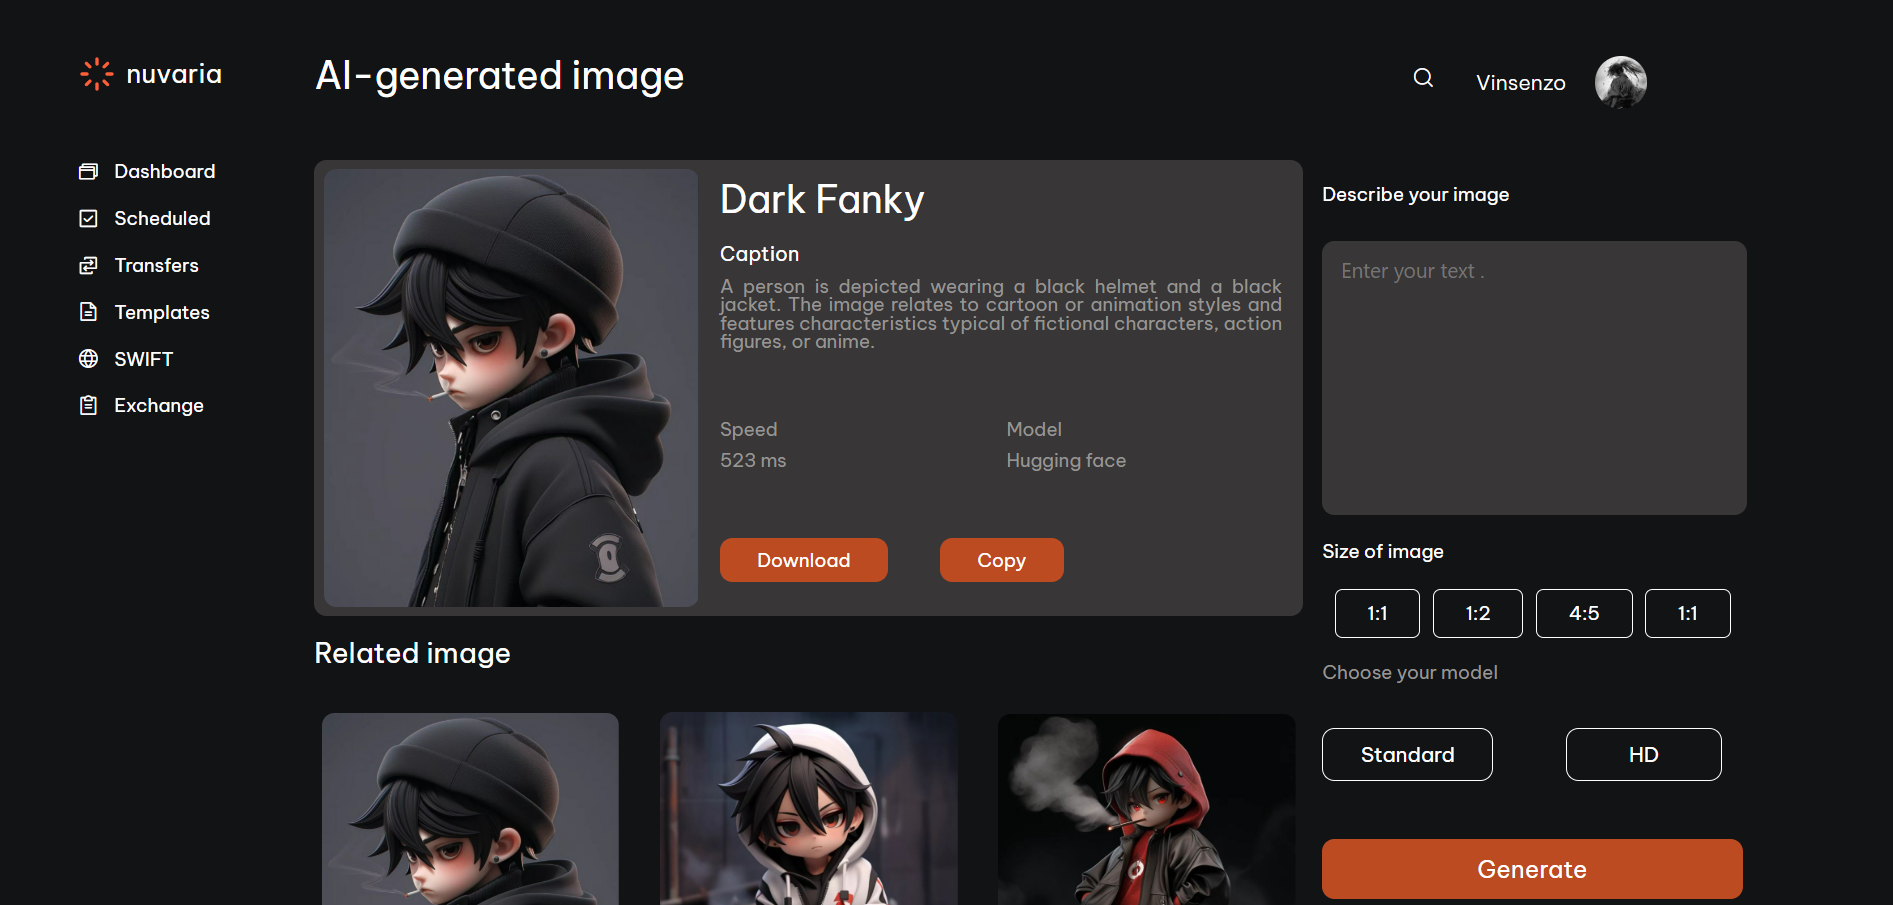
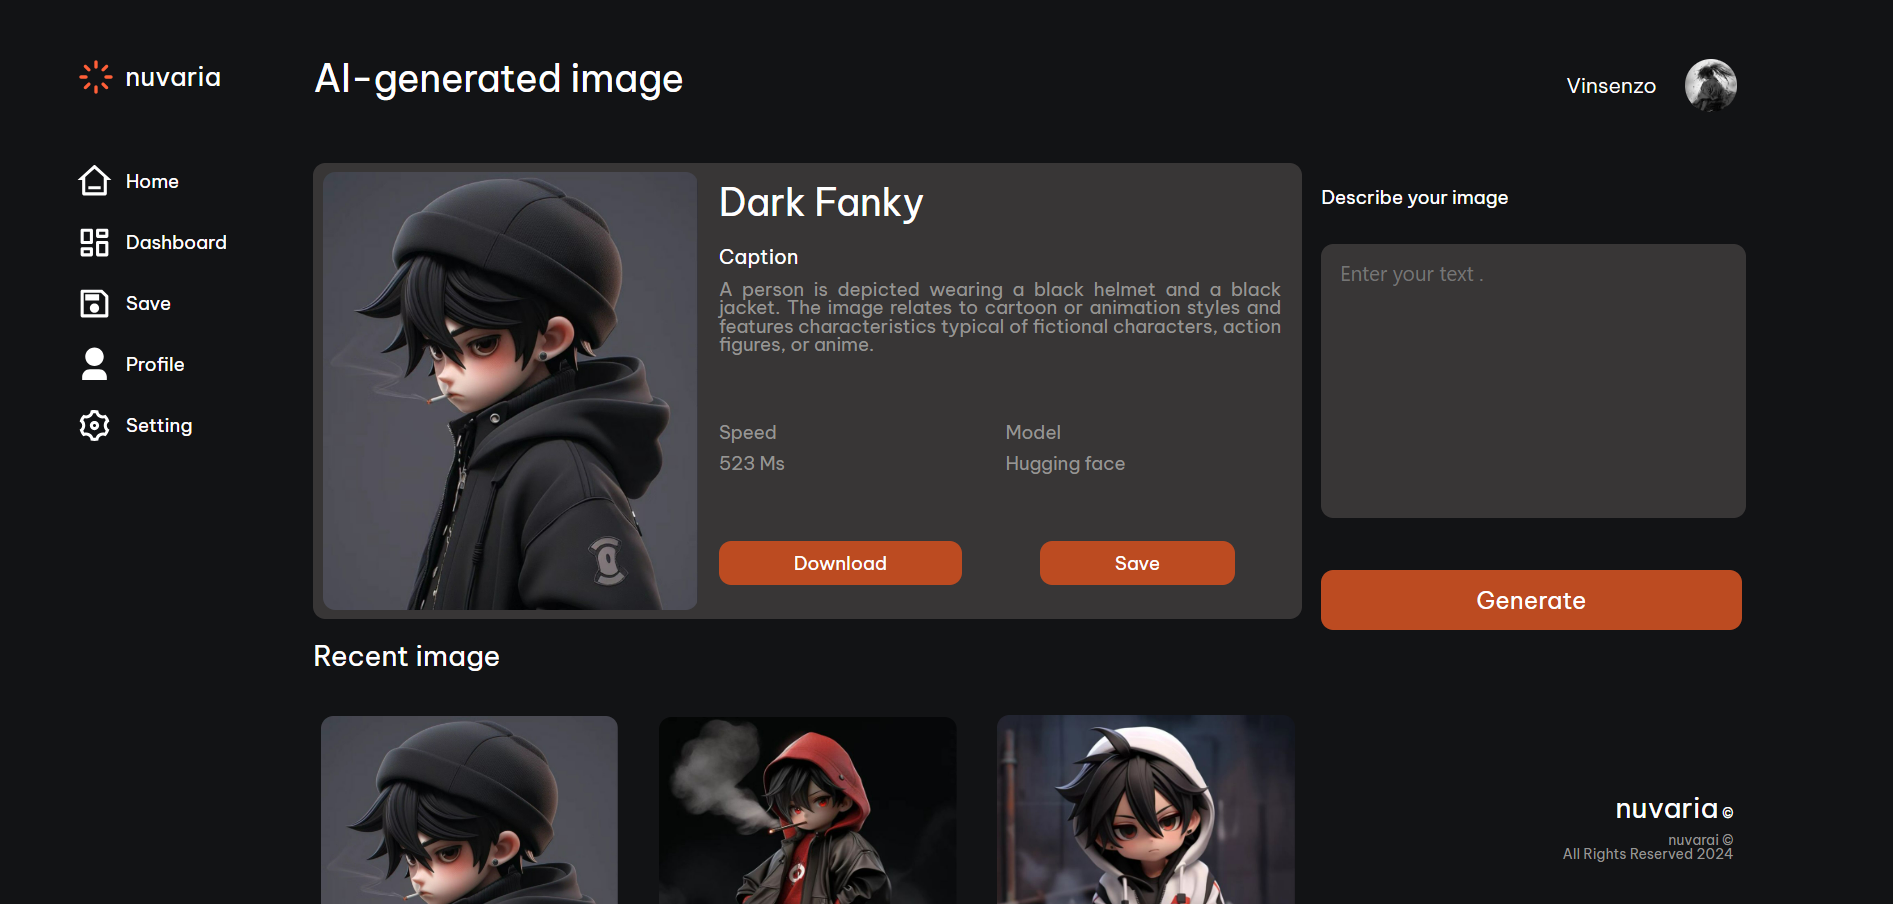
update 🌿

diff --git a/public/dashboard.html b/public/dashboard.html
@@ -29,10 +29,6 @@
 		<div class="app-header-actions">
 		
 			<div class="app-header-actions-buttons">
-				<button class="icon-button large">
-					<i class="ph-magnifying-glass"></i>
-				</button>
-				
 				<button class="user-profile">
 					<span>Vinsenzo</span>
 					<span>
@@ -52,41 +48,28 @@
 		<div class="app-body-navigation">
 			<nav class="navigation">
 				<a href="/">
-					<i class="ph-browsers"></i>
+					<img src="./image/icon/home.svg" alt="">
 					<span>Home</span>
 				</a>
 				<a href="#">
-					<i class="ph-browsers"></i>
-					<span>Dashboard</span>
+					<img src="./image/icon/dashboard.svg" alt="">
+					<span> Dashboard</span>
 				</a>
 				<a href="#">
-					<i class="ph-check-square"></i>
+					<img src="./image/icon/save.svg" alt="">
 					<span>Save</span>
 				</a>
 				<a href="#">
-					<i class="ph-swap"></i>
-					<span>Transfers</span>
+					<img src="./image/icon/user.svg" alt="">
+					<span>Profile</span>
 				</a>
 				<a href="#">
-					<i class="ph-file-text"></i>
-					<span>Templates</span>
+					<img src="./image/icon/settings.svg" alt="">
+					<span>Setting</span>
 				</a>
-				<a href="#">
-					<i class="ph-globe"></i>
-					<span>SWIFT</span>
-				</a>
-				<a href="#">
-					<i class="ph-clipboard-text"></i>
-					<span>Exchange</span>
-				</a>
+			
 			</nav>
-			<footer class="footer">
-				<h1>nuvaria<small>©</small></h1>
-				<div>
-					nuvarai ©<br />
-					All Rights Reserved 2024
-				</div>
-			</footer>
+		
 		</div>
 
 
@@ -94,7 +77,7 @@
 		<div class="app-body-main-content">
     <section class="gen-image">
 			<article class="img-output">
-				<img src="./image/dashbord-img/main_img.jpg" alt="">						
+				<img src="./image/main_img.jpg" alt="">						
 		</article>
 		<div class="img-detail">
 			<h1>Dark Fanky </h1>
@@ -106,7 +89,7 @@
 				<div class="part1">
 					<div>
 						<p>Speed</p>
-						<p>523 ms</p>
+						<p>523 Ms</p>
 					</div>
 					
 				</div>
@@ -116,9 +99,6 @@
 						<p>Hugging face </p>
 					</div>
 				</div>
-
-				
-				
 				<div>
 				</div>
 				
@@ -126,25 +106,24 @@
 			<div class="download-btn">
 
 				<a id="download-btn" href="#"> Download <i class="ri-download-cloud-2-line"></i></a>
-				<a id="download-btn" href="#"> Copy<i class="ri-download-cloud-2-line"></i></a>
+				<a id="download-btn" href="#"> Save<i class="ri-download-cloud-2-line"></i></a>
 			</div>	
 
 
 		</section>
 			<section class="service-section">
-				<h2>Related image </h2>
+				<h2>Recent image </h2>
 				
 			
 				<div class="tiles">
-	
 					<article class="tile">
-						<img src="./image/dashbord-img/sub_img1.jpeg" alt="">						
-				</article>
-					<article class="tile">
-					 <img src="./image/dashbord-img/sub_img2.jpeg" alt="">
+					 <img src="./image/main_img.jpg" alt="">
 					</article>
 					<article class="tile">
-					<img src="./image/dashbord-img/sub_img3.jpeg" alt="">
+					<img src="./image/sub_img2.jpeg" alt="">
+					</article>
+					<article class="tile">
+					<img src="./image/sub_img3.jpeg" alt="">
 					</article>
 				</div>
 			
@@ -156,7 +135,7 @@
 			<section class="payment-section">
 			
 				<div class="payment-section-header">
-					<p>Describe your image  </p>			
+					<p>Describe your image </p>			
 				</div>
 				<div class="input-base">
 					<textarea  id="input" placeholder="Enter your text ."></textarea>
@@ -185,15 +164,20 @@
 				</div> -->
 
    
-				<h5 class="model"> Choose your model </h5>
-				<div class="btn-body1">
-					<button id="btn-stander">Standard</button>
-					<button id="btn-hd">HD  </button>
-				</div>
+				<!-- <h5 class="model"> Choose your model </h5> -->
+				
 
 				<a href="#image" class="btn-body" >
 					<button id="btn"> Generate <i class="ri-rocket-fill"></i></button>
 					</a>
+
+					<footer class="footer">
+						<h1>nuvaria<small>©</small></h1>
+						<div>
+							nuvarai ©<br/>
+							All Rights Reserved 2024
+						</div>
+					</footer>
 			</section>
 		</div>
 	</div>

diff --git a/public/css/dashbord.css b/public/css/dashbord.css
@@ -1,21 +1,5 @@
 @import url("https://fonts.googleapis.com/css2?family=Be+Vietnam+Pro:ital,wght@0,100;0,200;0,300;0,400;0,500;0,600;0,700;0,800;0,900;1,100;1,200;1,300;1,400;1,500;1,600;1,700;1,800;1,900&display=swap");
-/* :root {
-  --c-gray-900: #000000;
-  --c-gray-800: #1f1f1f;
-  --c-gray-700: #2e2e2e;
-  --c-gray-600: #313131;
-  --c-gray-500: #969593;
-  --c-gray-400: #a6a6a6;
-  --c-gray-300: #bdbbb7;
-  --c-gray-200: #f1f1f1;
-  --c-gray-100: #ffffff;
-  --c-green-500: #45ffbc;
-  --c-olive-500: #e3ffa8;
-  --c-white: var(--c-gray-100);
-  --c-text-primary: var(--c-gray-100);
-  --c-text-secondary: var(--c-gray-200);
-  --c-text-tertiary: var(--c-gray-500);
-} */
+
 
 body {
 
@@ -157,12 +141,13 @@ a {
 }
 
 .footer {
-  margin-top: auto;
+  margin-top: 130px;
+  text-align:end;
+  margin-right: 70px;
 }
 .footer h1 {
   font-size: 1.5rem;
   line-height: 1.125;
-  display: flex;
   align-items: flex-start;
 }
 .footer h1 small {
@@ -170,11 +155,10 @@ a {
   margin-left: 0.25em;
 }
 .footer div {
-  border-top: 1px solid var(--c-gray-600);
-  margin-top: 1.5rem;
-  padding-top: 1rem;
+  color: #969593;
+  margin-top: 0.5rem;
   font-size: 0.75rem;
-  color: var(--c-text-tertiary);
+
 }
 
 .logo {
@@ -232,8 +216,8 @@ a {
   margin-top: 1.25rem;
 }
 .navigation a:hover, .navigation a:focus {
-  transform: translateX(4px);
-  color: var(--c-text-primary);
+  transform: translateX(2px);
+  color: #BC4B21;
 }
 
 .tabs {
@@ -255,9 +239,9 @@ a {
   align-items: center;
   border: 0;
   background: transparent;
-  cursor: pointer;
   color: var(--c-text-tertiary);
   transition: 0.25s ease;
+  margin-left: 130px;
 }
 .user-profile:hover, .user-profile:focus {
   color: var(--c-text-primary);
@@ -833,32 +817,23 @@ textarea {
 
 #download-btn{
   background-color:#BC4B21;
-  /* margin-top: 10px; */
   text-decoration: none; 
   color: inherit; 
-  padding: 10px 30px;
+  padding: 10px 60px;
   border-radius: 10px;
   color: white;
-  /* margin-right: 20px; */
 
 }
 
 
 .download-btn{
-  width: 60%;
+  width: 90%;
   margin-top: 10px;
   display: flex;
   align-items: center;
   justify-content: space-between;
 }
-.btn-body1{
-  width:80%;
-  display: flex;
-  justify-content: space-between;
-  align-items: center;
-  padding: 7px 0px;
-  margin-top: 30px;
-}
+
  
 #btn-stander{
   padding: 12px 30px ;
@@ -900,3 +875,7 @@ textarea {
   border: none;
 }
 
+.navigation a img{
+  width: 30px;
+  margin-right: 10px;  
+}

diff --git a/public/login.html b/public/login.html
@@ -16,15 +16,15 @@
       </div>
       
       <div class="google-btn">
-        <img src="./image/google.png" alt="">
+        <img src="./image/icon/google.svg" alt="">
        <p >Continue with Google</p> 
       </div>
       <div class="discord-btn">
-        <img src="./image/Discord.png" alt="">
+        <img src="./image/icon/Discord.svg" alt="">
        <p >Continue with Discord</p> 
       </div>
       <div class="github-btn">
-        <img src="./image/github.png" alt="">
+        <img src="./image/icon/github.svg" alt="">
        <p >Continue with Github</p> 
       </div>
     </form>
